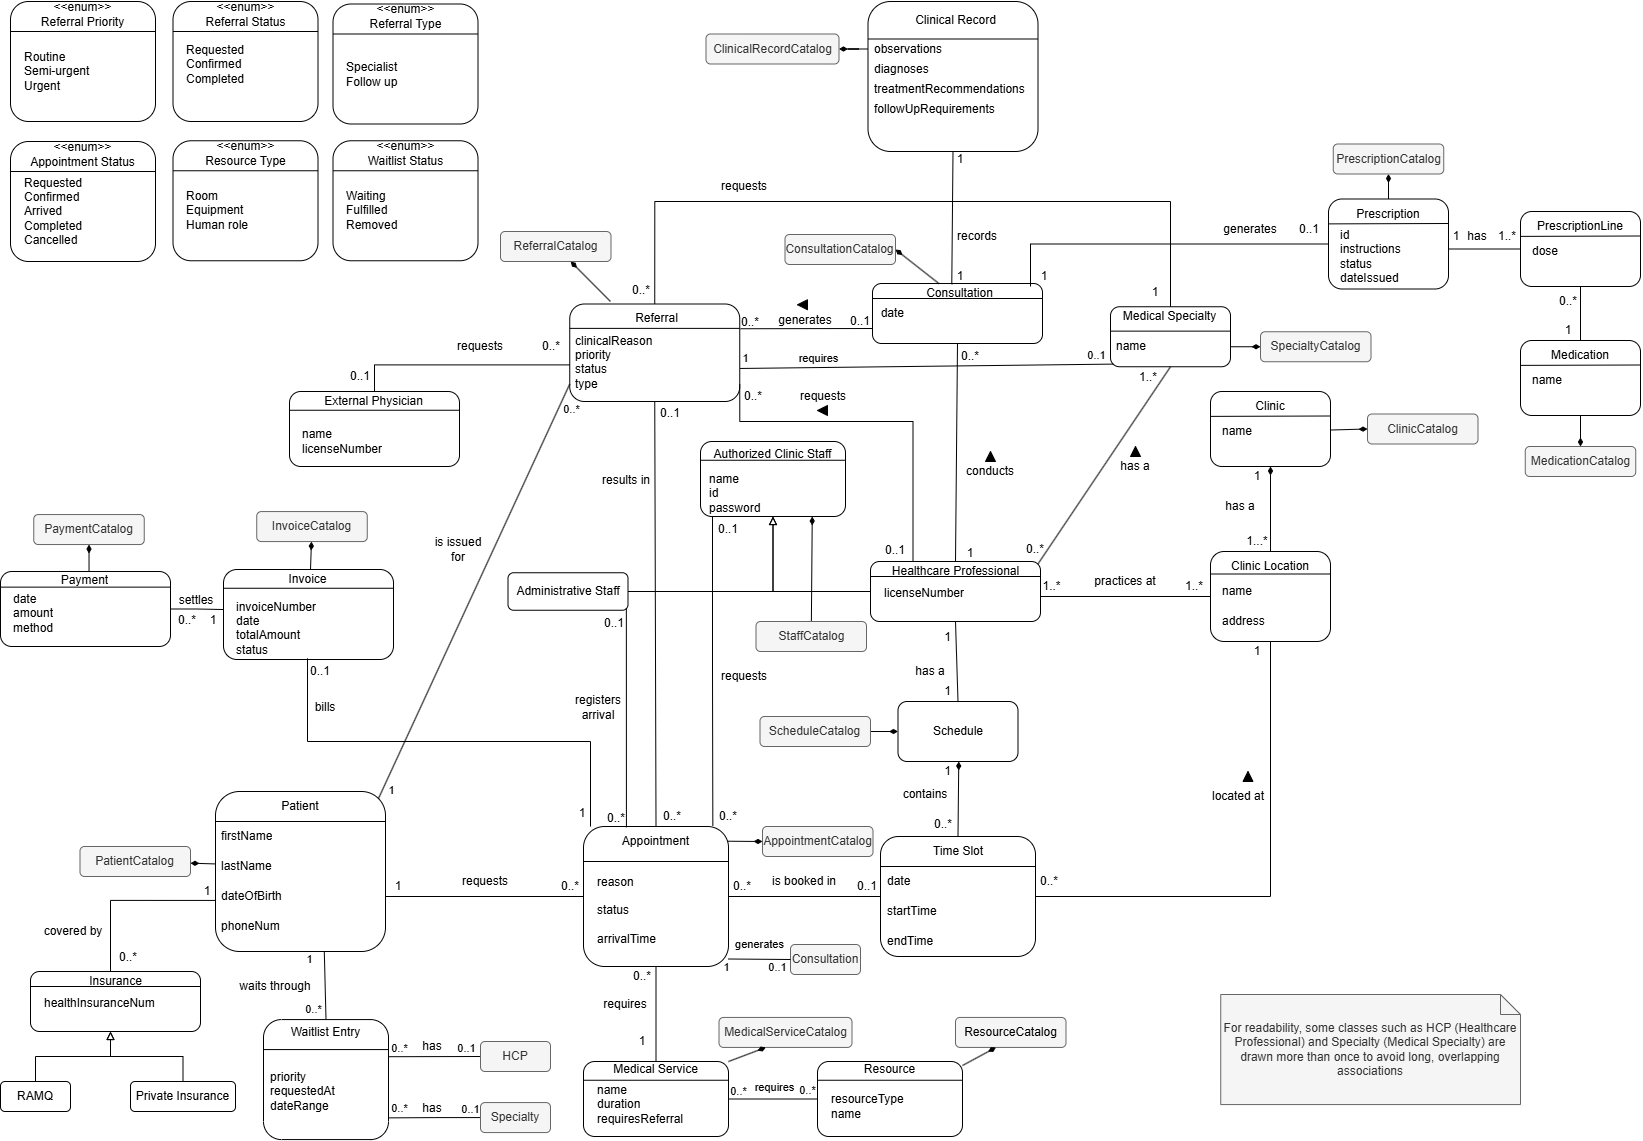
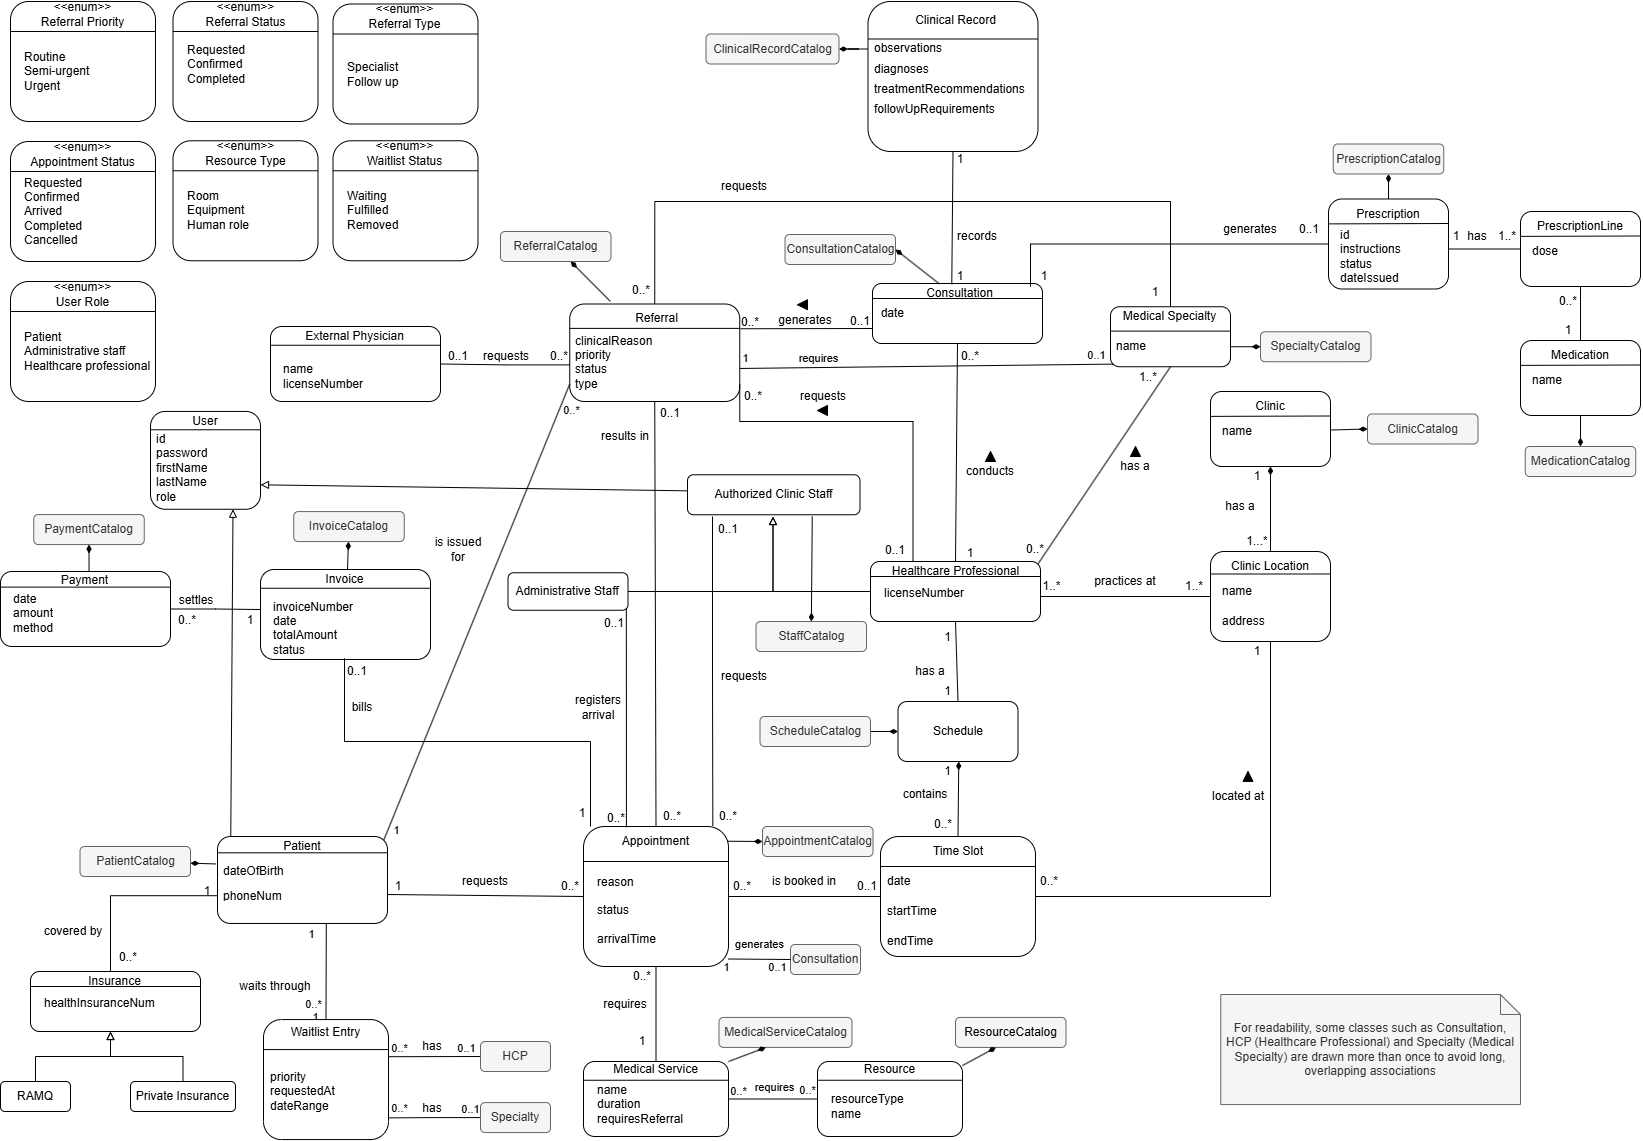
Add user concept to diagrams

diff --git a/artifacts/Contributions.md b/artifacts/Contributions.md
@@ -1,0 +1,26 @@
+### Artifact Contributions
+
+| Artifact | Main Contributors |
+|---|---|
+| Domain Model Diagram | Manlai & Nada |
+| Use Case Diagram | Nada & Manlai |
+| Class Diagram | Manlai & Nada |
+| Book Appointment Contracts | Manlai |
+| Book Appointment Operations | Manlai |
+| Book Appointment SSD | Emile |
+| Book Appointment Use Case | Nada |
+| Book Appointment Interaction Diagrams | Manlai |
+| Issue Prescription Contracts | Nada |
+| Issue Prescription Operations | Manlai |
+| Issue Prescription SSD | Emile |
+| Issue Prescription Use Case | Nada |
+| Issue Prescription Interaction Diagrams | Manlai |
+| Register Patient Arrival Contracts | Nada |
+| Register Patient Arrival Operations | Manlai |
+| Register Patient Arrival SSD | Emile |
+| Register Patient Arrival Use Case | Nada |
+| Register Patient Arrival Interaction Diagrams | Manlai |
+| Search Availability SSD | Manlai |
+| Make Availability SSD | Manlai
+| Waitlist/Offer/Cancel SSDs | Manlai
+
